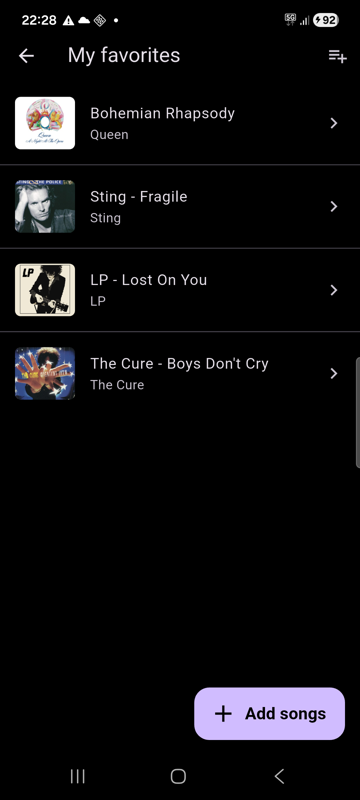
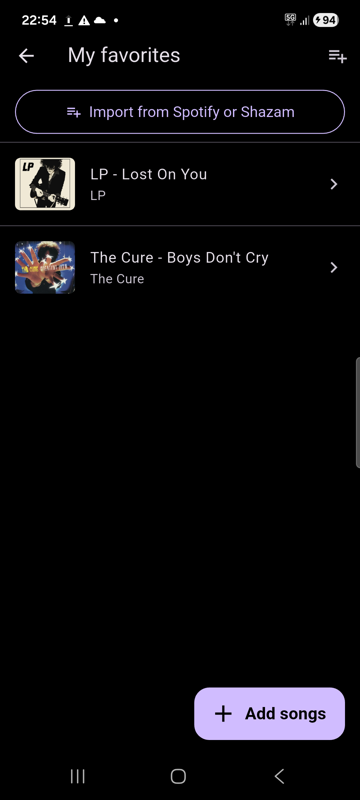
README: screenshots of version 1.9.2
New home, playlist (with the import button) and removal confirmation
screenshots.

diff --git a/README.md b/README.md
@@ -56,7 +56,7 @@ flowchart LR
 - **Big purple "Add songs" button**, always visible in the playlist.
 - **Remove songs** from the playlist by swiping them to the left (or with
   the heart): a dialog asks for confirmation, and **Undo** puts them back.
-  <br><img src="docs/screenshots/remove.png" alt="Swipe to remove a song" width="180">
+  <br><img src="docs/screenshots/remove.png" alt="Confirmation before removing a song" width="180">
 - **Import a playlist from Spotify** by pasting its link (public playlists).
   Songs without synced lyrics are skipped. **Shazam** songs can be imported
   too: in Shazam, connect Spotify and your Shazams are saved in the Spotify
